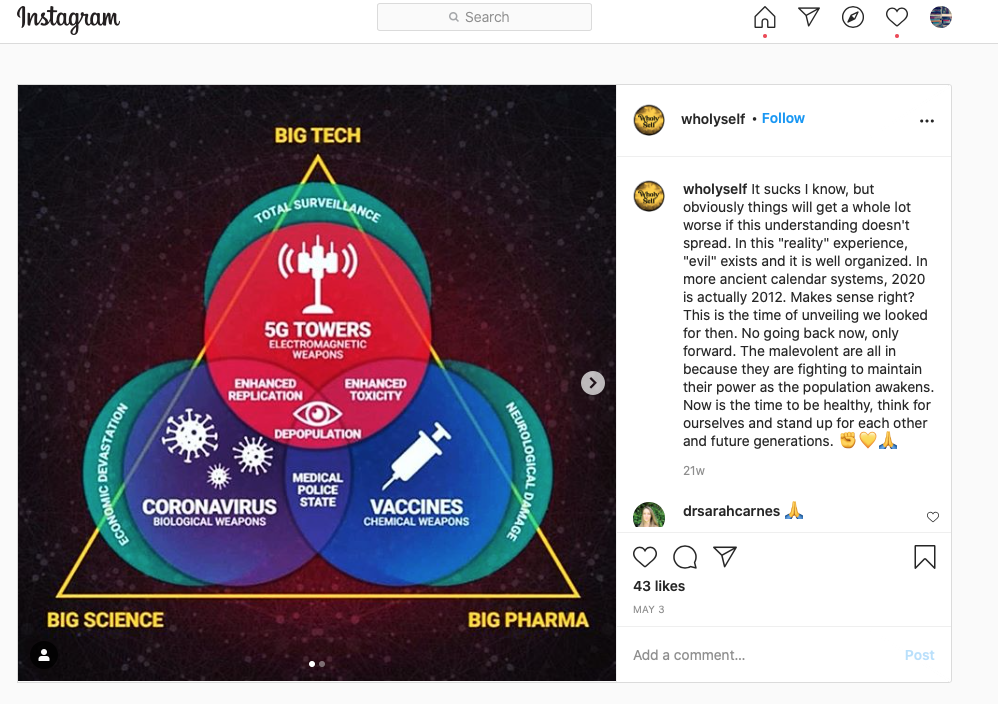
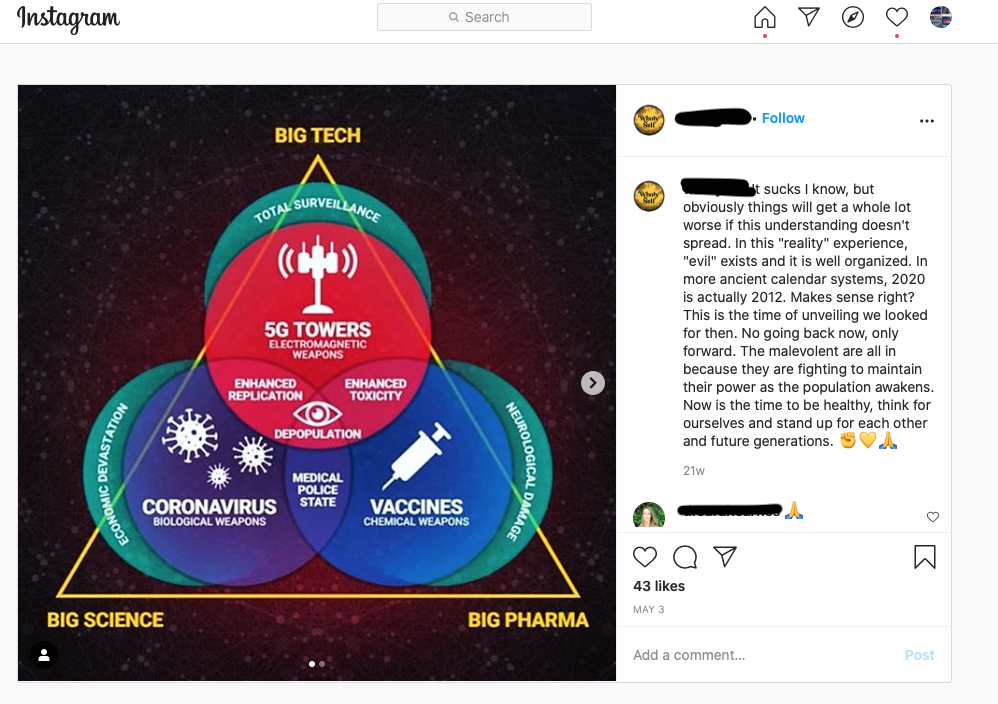
updated images

Changed region(s): [[0.6834, 0.6875, 0.7766, 0.75], [0.6523, 0.1562, 0.7766, 0.1875], [0.6834, 0.25, 0.7766, 0.2812]]

diff --git a/_posts/2020-10-21-what-are-covid-19-conspiracy-theories.md b/_posts/2020-10-21-what-are-covid-19-conspiracy-theories.md
@@ -76,7 +76,7 @@ Theories about adrenochrome appear in QAnon discourse before the COVID-19 pandem
 
 ![alt_text](http://infodemic.eu/assets/images/post3/image8.png)
 
-*@JMiano58, [Twitter](https://twitter.com/JMiano58/status/1238688041407066115), 14 March 2020*
+*Twitter post, 14 March 2020*
 
 ## 6. COVID-19 is actually caused by 5G and is a pretext for genocide by vaccine
 
@@ -88,11 +88,11 @@ Of importance is the way in which 5G conspiracy theories have been woven into la
 
 ![alt_text](http://infodemic.eu/assets/images/post3/image1.png)
 
-[Image shared by [wholyself](https://www.instagram.com/p/B_tOLxznsUR/), Instagram, May 3rd, 2020.]
+*Image shared on Instagram, May 3rd, 2020.*
 
 ![alt_text](http://infodemic.eu/assets/images/post3/image3.png)
 
-*Facebook post, [Myreon Carter](https://www.facebook.com/mcon.thabeat.7), 8 March 2020. Sourced by [https://www.abc.net.au/news/2020-04-09/corona-5-a/12130944?nw=0](https://www.abc.net.au/news/2020-04-09/corona-5-a/12130944?nw=0)*
+*Facebook post, 8 March 2020. Sourced by [https://www.abc.net.au/news/2020-04-09/corona-5-a/12130944?nw=0](https://www.abc.net.au/news/2020-04-09/corona-5-a/12130944?nw=0)*
 
 ## 7. COVID-19 is a plot by big pharma to increase its power and profit from treatments and vaccines
 
@@ -102,4 +102,4 @@ Making health and medicine subject to competitive open markets perhaps produces 
 
 ![alt_text](http://infodemic.eu/assets/images/post3/image5.png)
 
-*Facebook, [Andrea De Saint](https://www.facebook.com/andreea.desaint/posts/220022479456056), 23 September 2020*
+*Facebook, post, 23 September 2020*
